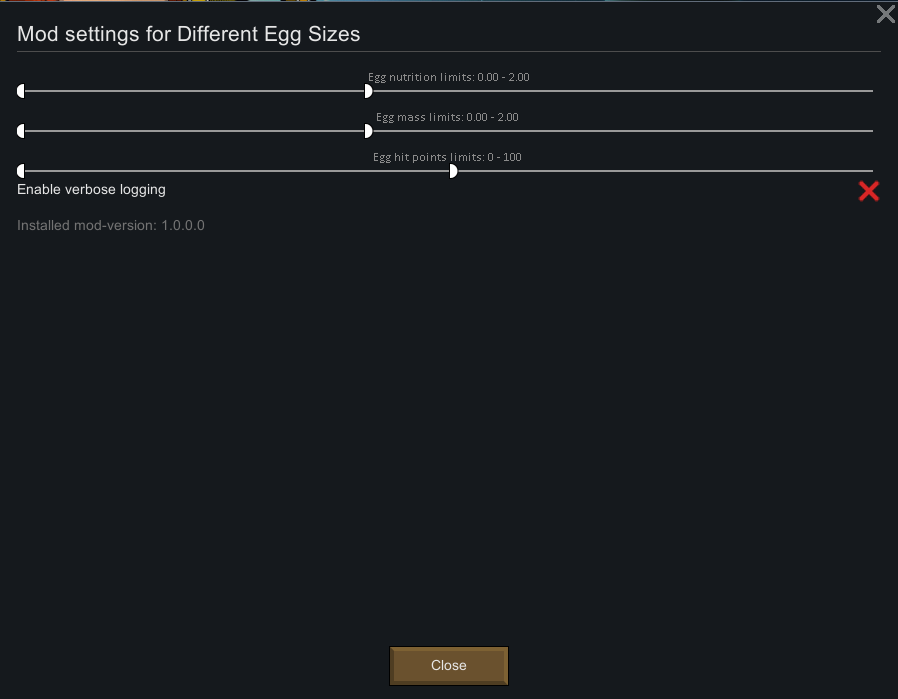
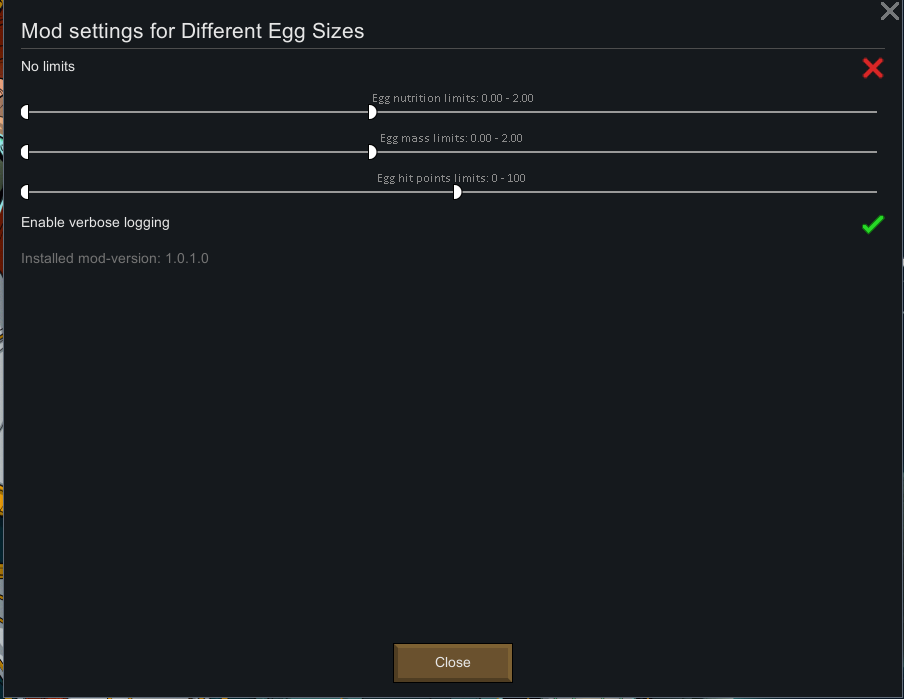
Added a no-limit option, for those who want gigantic eggs

diff --git a/Source/DifferentEggSizes/Main.cs b/Source/DifferentEggSizes/Main.cs
@@ -86,20 +86,23 @@ namespace DifferentEggSizes
 
                 var bodyFactor = (float)layerBodySize / baseBodySize;
                 var newNutrition = (float)Math.Round((decimal)(baseNutrition * bodyFactor), 3);
-                newNutrition =
-                    Math.Max(Math.Min(newNutrition, DifferentEggSizesMod.instance.Settings.MaxEggNutrition.max),
-                        DifferentEggSizesMod.instance.Settings.MaxEggNutrition.min);
-                egg.SetStatBaseValue(StatDefOf.Nutrition, newNutrition);
-
                 var newMass = (float)Math.Round((decimal)(baseMass * bodyFactor), 3);
-                newMass = Math.Max(Math.Min(newMass, DifferentEggSizesMod.instance.Settings.MaxEggMass.max),
-                    DifferentEggSizesMod.instance.Settings.MaxEggMass.min);
-                egg.SetStatBaseValue(StatDefOf.Mass, newMass);
-
                 var newMaxHitPoints = (float)Math.Round((decimal)(baseMaxHitPoints * bodyFactor), 0);
-                newMaxHitPoints =
-                    Math.Max(Math.Min(newMaxHitPoints, DifferentEggSizesMod.instance.Settings.MaxEggHitPoints.max),
-                        DifferentEggSizesMod.instance.Settings.MaxEggHitPoints.min);
+
+                if (!DifferentEggSizesMod.instance.Settings.NoLimit)
+                {
+                    newNutrition =
+                        Math.Max(Math.Min(newNutrition, DifferentEggSizesMod.instance.Settings.MaxEggNutrition.max),
+                            DifferentEggSizesMod.instance.Settings.MaxEggNutrition.min);
+                    newMass = Math.Max(Math.Min(newMass, DifferentEggSizesMod.instance.Settings.MaxEggMass.max),
+                        DifferentEggSizesMod.instance.Settings.MaxEggMass.min);
+                    newMaxHitPoints =
+                        Math.Max(Math.Min(newMaxHitPoints, DifferentEggSizesMod.instance.Settings.MaxEggHitPoints.max),
+                            DifferentEggSizesMod.instance.Settings.MaxEggHitPoints.min);
+                }
+
+                egg.SetStatBaseValue(StatDefOf.Nutrition, newNutrition);
+                egg.SetStatBaseValue(StatDefOf.Mass, newMass);
                 egg.SetStatBaseValue(StatDefOf.MaxHitPoints, newMaxHitPoints);
 
                 if (DifferentEggSizesMod.instance.Settings.VerboseLogging)

diff --git a/Source/DifferentEggSizes/DifferentEggSizesMod.cs b/Source/DifferentEggSizes/DifferentEggSizesMod.cs
@@ -66,15 +66,22 @@ namespace DifferentEggSizes
         {
             var listing_Standard = new Listing_Standard();
             listing_Standard.Begin(rect);
+            listing_Standard.CheckboxLabeled("DES.nolimit.label".Translate(), ref Settings.NoLimit,
+                "DES.nolimit.tooltip".Translate());
+            if (!Settings.NoLimit)
+            {
+                listing_Standard.Gap();
+                Widgets.FloatRange(listing_Standard.GetRect(28f), 192168110, ref Settings.MaxEggNutrition, 0f, 5f,
+                    "DES.MaxEggNutrition");
+                listing_Standard.Gap();
+                Widgets.FloatRange(listing_Standard.GetRect(28f), 192168120, ref Settings.MaxEggMass, 0f, 5f,
+                    "DES.MaxEggMass");
+                listing_Standard.Gap();
+                Widgets.IntRange(listing_Standard.GetRect(28f), 192168130, ref Settings.MaxEggHitPoints, 0, 200,
+                    "DES.MaxEggHitPoints");
+            }
+
             listing_Standard.Gap();
-            Widgets.FloatRange(listing_Standard.GetRect(28f), 192168110, ref Settings.MaxEggNutrition, 0f, 5f,
-                "DES.MaxEggNutrition");
-            listing_Standard.Gap();
-            Widgets.FloatRange(listing_Standard.GetRect(28f), 192168120, ref Settings.MaxEggMass, 0f, 5f,
-                "DES.MaxEggMass");
-            listing_Standard.Gap();
-            Widgets.IntRange(listing_Standard.GetRect(28f), 192168130, ref Settings.MaxEggHitPoints, 0, 200,
-                "DES.MaxEggHitPoints");
             listing_Standard.CheckboxLabeled("DES.logging.label".Translate(), ref Settings.VerboseLogging,
                 "DES.logging.tooltip".Translate());
             if (currentVersion != null)

diff --git a/Source/DifferentEggSizes/DifferentEggSizesSettings.cs b/Source/DifferentEggSizes/DifferentEggSizesSettings.cs
@@ -10,6 +10,7 @@ namespace DifferentEggSizes
         public IntRange MaxEggHitPoints = new IntRange(0, 100);
         public FloatRange MaxEggMass = new FloatRange(0f, 2f);
         public FloatRange MaxEggNutrition = new FloatRange(0f, 2f);
+        public bool NoLimit;
         public bool VerboseLogging;
 
         /// <summary>
@@ -19,6 +20,7 @@ namespace DifferentEggSizes
         {
             base.ExposeData();
             Scribe_Values.Look(ref VerboseLogging, "VerboseLogging");
+            Scribe_Values.Look(ref NoLimit, "NoLimit");
             Scribe_Values.Look(ref MaxEggNutrition, "MaxEggNutrition", new FloatRange(0f, 2f));
             Scribe_Values.Look(ref MaxEggMass, "MaxEggMass", new FloatRange(0f, 2f));
             Scribe_Values.Look(ref MaxEggHitPoints, "MaxEggHitPoints", new IntRange(0, 100));

diff --git a/README.md b/README.md
@@ -8,6 +8,8 @@ The major difference is that this version changes all eggs based on the body-siz
 
 All calculations are made with the chicken being the base-animal. So all other eggs will have their Nutrition, Mass and MaxHitPoints changed based on the relative body-size difference between their egg-layer and the vanilla chicken.
 
+There are also mod-settings for setting max/min possible values generated by the mod.
+
 Mod-order should not matter as all changes are done after all definitions have been loaded.
 	
 
